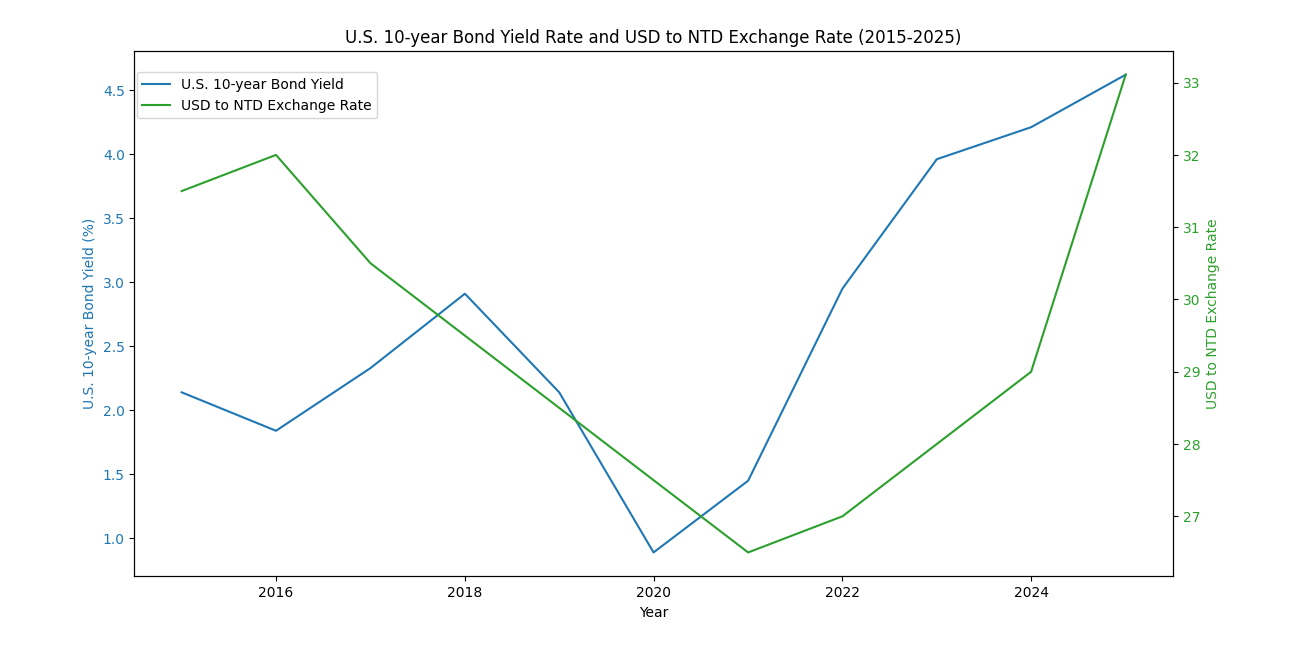
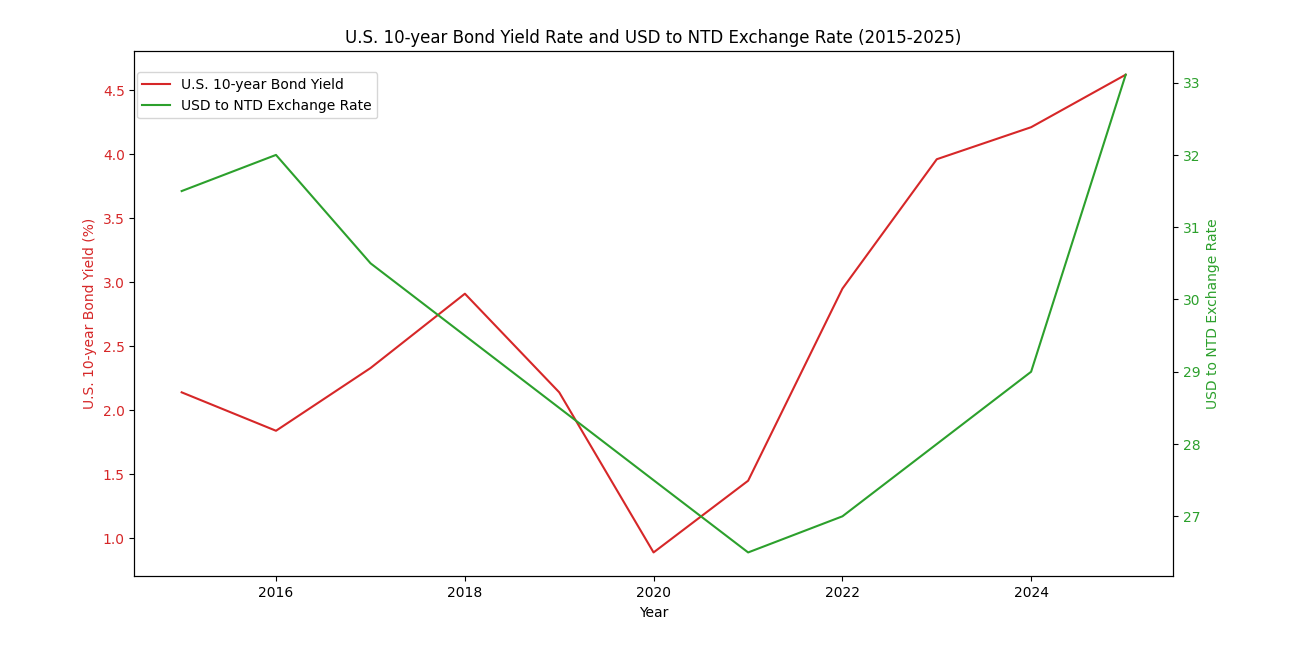
change bond yeild rate to color red.

diff --git a/us-bond/us-bond-exchange-ntd.py b/us-bond/us-bond-exchange-ntd.py
@@ -12,9 +12,9 @@ fig, ax1 = plt.subplots()
 
 # Plotting U.S. 10-year bond yield rate
 ax1.set_xlabel('Year')
-ax1.set_ylabel('U.S. 10-year Bond Yield (%)', color='tab:blue')
-ax1.plot(dates, bond_yields, color='tab:blue', label='U.S. 10-year Bond Yield')
-ax1.tick_params(axis='y', labelcolor='tab:blue')
+ax1.set_ylabel('U.S. 10-year Bond Yield (%)', color='tab:red')
+ax1.plot(dates, bond_yields, color='tab:red', label='U.S. 10-year Bond Yield')
+ax1.tick_params(axis='y', labelcolor='tab:red')
 
 # Creating a second y-axis for the exchange rate
 ax2 = ax1.twinx()
